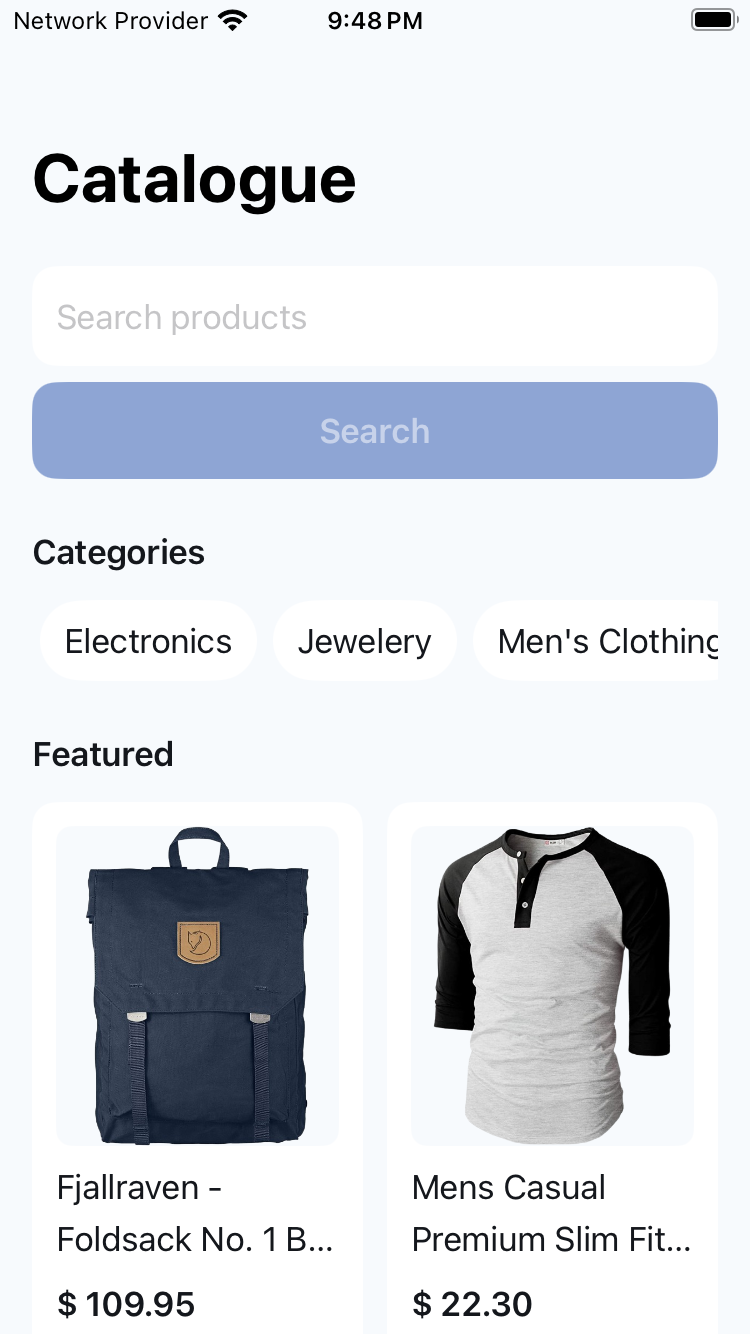
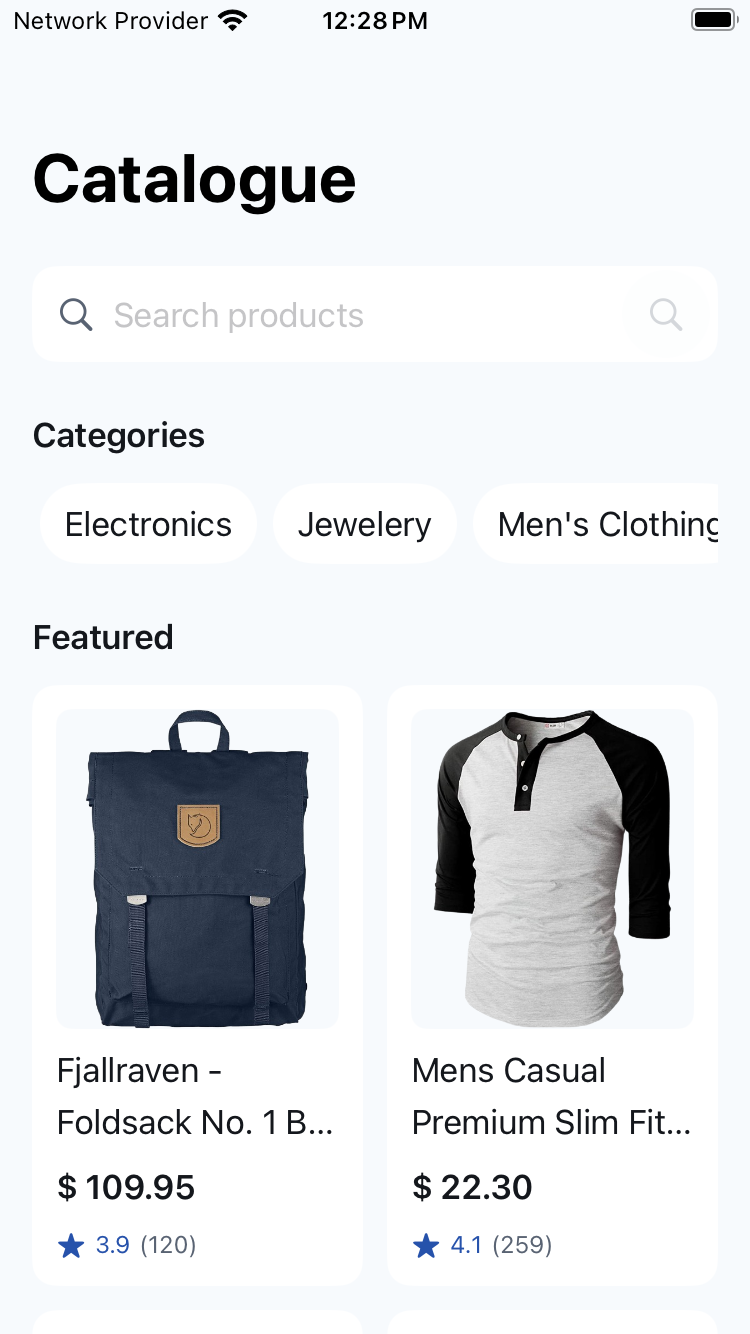
Make search bar compact

diff --git a/ios/CatalogueApp/DesignSystem/SearchBar.swift b/ios/CatalogueApp/DesignSystem/SearchBar.swift
@@ -19,8 +19,13 @@ struct SearchBar: View {
     }
 
     var body: some View {
-        VStack(spacing: Spacing.s8) {
+        VStack(alignment: .leading, spacing: Spacing.s8) {
             HStack(spacing: Spacing.s8) {
+                Image(systemName: "magnifyingglass")
+                    .font(Typography.body)
+                    .foregroundStyle(Palette.textSecondary)
+                    .accessibilityHidden(true)
+
                 TextField("Search products", text: $text)
                     .font(Typography.body)
                     .foregroundStyle(Palette.textPrimary)
@@ -28,6 +33,7 @@ struct SearchBar: View {
                     .submitLabel(.search)
                     .onSubmit(performSearch)
                     .accessibilityLabel("Search products")
+                    .layoutPriority(1)
 
                 if !text.isEmpty {
                     Button {
@@ -36,11 +42,37 @@ struct SearchBar: View {
                         Image(systemName: "xmark.circle.fill")
                             .font(Typography.body)
                             .foregroundStyle(Palette.textSecondary)
+                            .frame(
+                                width: Spacing.minimumTapTarget,
+                                height: Spacing.minimumTapTarget
+                            )
                     }
+                    .buttonStyle(.plain)
                     .accessibilityLabel("Clear search")
                 }
+
+                Button(action: performSearch) {
+                    Image(systemName: "magnifyingglass")
+                        .font(Typography.body)
+                        .foregroundStyle(canSearch ? Palette.surface : Palette.textSecondary)
+                        .frame(
+                            width: Spacing.minimumTapTarget,
+                            height: Spacing.minimumTapTarget
+                        )
+                        .background(
+                            canSearch ? Palette.brand : Palette.background,
+                            in: Circle()
+                        )
+                }
+                .buttonStyle(.plain)
+                .opacity(canSearch ? 1 : Opacity.disabled)
+                .disabled(!canSearch)
+                .accessibilityLabel("Search")
+                .accessibilityHint("Searches the catalogue")
             }
-            .padding(Spacing.s12)
+            .padding(.leading, Spacing.s12)
+            .padding(.trailing, Spacing.s4)
+            .frame(minHeight: Spacing.searchBarMinimumHeight)
             .background(
                 Palette.surface,
                 in: RoundedRectangle(cornerRadius: Radius.r12)
@@ -50,11 +82,10 @@ struct SearchBar: View {
                 Text(verbatim: validationMessage)
                     .font(Typography.caption)
                     .foregroundStyle(Palette.error)
+                    .frame(maxWidth: .infinity, alignment: .leading)
                     .padding(.horizontal, Spacing.s4)
+                    .accessibilityAddTraits(.updatesFrequently)
             }
-
-            PrimaryButton(title: "Search", action: performSearch)
-                .disabled(!canSearch)
         }
     }
 
@@ -66,11 +97,40 @@ struct SearchBar: View {
     }
 }
 
-#Preview {
+#Preview("Empty") {
+    SearchBar(
+        text: .constant(""),
+        canSearch: false,
+        onSearch: {}
+    )
+    .padding()
+}
+
+#Preview("Valid text") {
     SearchBar(
         text: .constant("jacket"),
         canSearch: true,
         onSearch: {}
     )
     .padding()
+}
+
+#Preview("One character") {
+    SearchBar(
+        text: .constant("j"),
+        canSearch: false,
+        onSearch: {},
+        validationMessage: "Enter a search query between 2 and 100 characters."
+    )
+    .padding()
+}
+
+#Preview("Large text") {
+    SearchBar(
+        text: .constant("jacket"),
+        canSearch: true,
+        onSearch: {}
+    )
+    .padding()
+    .environment(\.dynamicTypeSize, .accessibility3)
 }

diff --git a/ios/CatalogueApp/DesignSystem/Spacing.swift b/ios/CatalogueApp/DesignSystem/Spacing.swift
@@ -7,12 +7,18 @@ enum Spacing {
     static let s16: CGFloat = 16
     static let s24: CGFloat = 24
     static let s32: CGFloat = 32
+    static let minimumTapTarget: CGFloat = 44
+    static let searchBarMinimumHeight: CGFloat = 48
 }
 
 enum Radius {
     static let r8: CGFloat = 8
     static let r12: CGFloat = 12
     static let r16: CGFloat = 16
+}
+
+enum Opacity {
+    static let disabled: Double = 0.5
 }
 
 enum Typography {

diff --git a/docs/MEMORY.md b/docs/MEMORY.md
@@ -64,3 +64,6 @@ Format: `YYYY-MM-DD HH:MM | type | note` where type = decision | convention | mi
 2026-11-05 11:48 | verification | Required checks after the R4/R5 code changes passed: backend 83 tests plus lint/build; CatalogueCore 33 cases (32 passed, optional live contract skipped); iOS app 65 passed. R5 reduced the CatalogueCore count from the earlier 34; that earlier run and the 11:15 R4/R5-open status are historical.
 2026-11-05 11:48 | docs | Updated README and PR description counts, drafted DECISIONS.md and AI_USAGE.md, and marked R4/R5 fixed in the review report. Architecture.md has no test-count statement to update. Placeholder counts are DECISIONS.md (30), AI_USAGE.md (12), README.md (5), docs/PR_DESCRIPTION.md (2), and .github/pull_request_template.md (18).
 2026-11-05 11:48 | mistake | Initial token-goat section calls passed the file and heading as separate arguments, and the map call included an unsupported path; both failed and were corrected with no file changes.
+2026-11-05 12:31 | decision | Kept a visible Search button because US3 requires tapping it; moved the icon-only submit button inside the compact rounded row while preserving keyboard Search submission.
+2026-11-05 12:31 | fix | The first app builds exposed unsupported `.isDisabled` and `.accessibilityLiveRegion` modifiers. Used Button `.disabled` with reduced opacity and the existing `.updatesFrequently` trait for the validation message; the final app build/tests and CatalogueCore tests passed.
+2026-11-05 12:31 | surprise | Default and accessibility-large screenshots showed the search row legible with no overlap, and backend-backed catalogue products loaded. A pre-existing `catalogue-ai-backend` container and Mailpit were running; after stopping the local Node server, the backend container was stopped to free port 3000, while Mailpit was left running. The iPhone SE used for capture was shut down; the pre-existing iPhone 17 was left untouched.

diff --git a/docs/DESIGN.md b/docs/DESIGN.md
@@ -5,19 +5,20 @@ The creative team will replace the visuals. Keep ALL styling in `DesignSystem/` 
 | Token | Value (placeholder) |
 |---|---|
 | Colours | `brand`, `background`, `surface`, `textPrimary`, `textSecondary`, `error`, via Asset Catalog (light + dark) |
-| Spacing | 4, 8, 12, 16, 24, 32 |
+| Spacing | 4, 8, 12, 16, 24, 32; 44pt minimum tap target; 48pt search-row minimum height |
 | Radius | 8, 12, 16 |
+| Opacity | Disabled controls: 0.5 |
 | Type | System text styles only (`.title`, `.headline`, `.body`, `.caption`) for Dynamic Type |
 
 ## Components
-`ProductTile`, `ProductGrid`, `SectionHeader`, `LoadStateView` (loading/error/empty wrapper), `PrimaryButton`, `FormField`, `RatingView`, `RemoteImage` (AsyncImage + placeholder).
+`ProductTile`, `ProductGrid`, `SectionHeader`, `LoadStateView` (loading/error/empty wrapper), `PrimaryButton`, `FormField`, `RatingView`, `RemoteImage` (AsyncImage + placeholder), `SearchBar` (compact rounded field with clear and icon-only submit buttons).
 
 ## Screens
 | Screen | Content | States |
 |---|---|---|
-| Home | Search bar, category chips, 5 featured tiles | loading, error+retry |
+| Home | Compact search row with leading magnifier and trailing icon button, category chips, 5 featured tiles | loading, error+retry |
 | Category | "Top rated" section (3), "More in <category>" section | loading, empty, error |
-| Search results | Query + results | idle, loading, empty ("No results for ..."), error |
+| Search results | Compact search row + results | idle, loading, empty ("No results for ..."), error |
 | Product detail | Image, title, price, rating, description, **Enquire** button | loading, error |
 | Enquiry form (sheet) | name, email, phone (optional), message, Submit | validating, submitting, success ("Thank you"), error |
 

diff --git a/DECISIONS.md b/DECISIONS.md
@@ -44,6 +44,7 @@ The A1-A7 gap and assumption text is copied from `docs/PRD.md`. The final column
 | Load images from the source URL included in product data (accepted R2/S1). | Proxy images through the backend or enforce a host allow-list. | The current app uses `AsyncImage`; the accepted resolution defers a proxy because it adds SSRF risk. The DTO mapper limits schemes to HTTP and HTTPS. | The device still contacts the supplied host directly; no host allow-list or proxy is present. |
 | Require TLS only when SMTP credentials are configured; use implicit TLS on port 465. | Require TLS for all SMTP connections or send authenticated credentials without TLS. | S2 was fixed while preserving unauthenticated Mailpit SMTP. `requireTLS` is set with credentials, and port 465 also sets `secure`. | Authenticated TLS has not been tested with a real provider. |
 | Keep the Xcode app target in Swift 5 language mode. | Enable strict Swift 6 language mode now. | `SWIFT_VERSION` is `5.0`, matching the package's Swift tools 5.9 Swift 5 mode, as recorded in `docs/MEMORY.md`. | Strict Swift 6 concurrency checking remains future work. |
+| Keep Search visible as a compact icon-only button inside the field row. | Use a full-width button below the field or hide the submit control. | US3 requires tapping the search button; this preserves that action and keyboard Search behavior while reducing vertical space. | Preserve 44pt targets and explicit disabled state/semantics. |
 
 ## Dropped or simplified, and why
 
